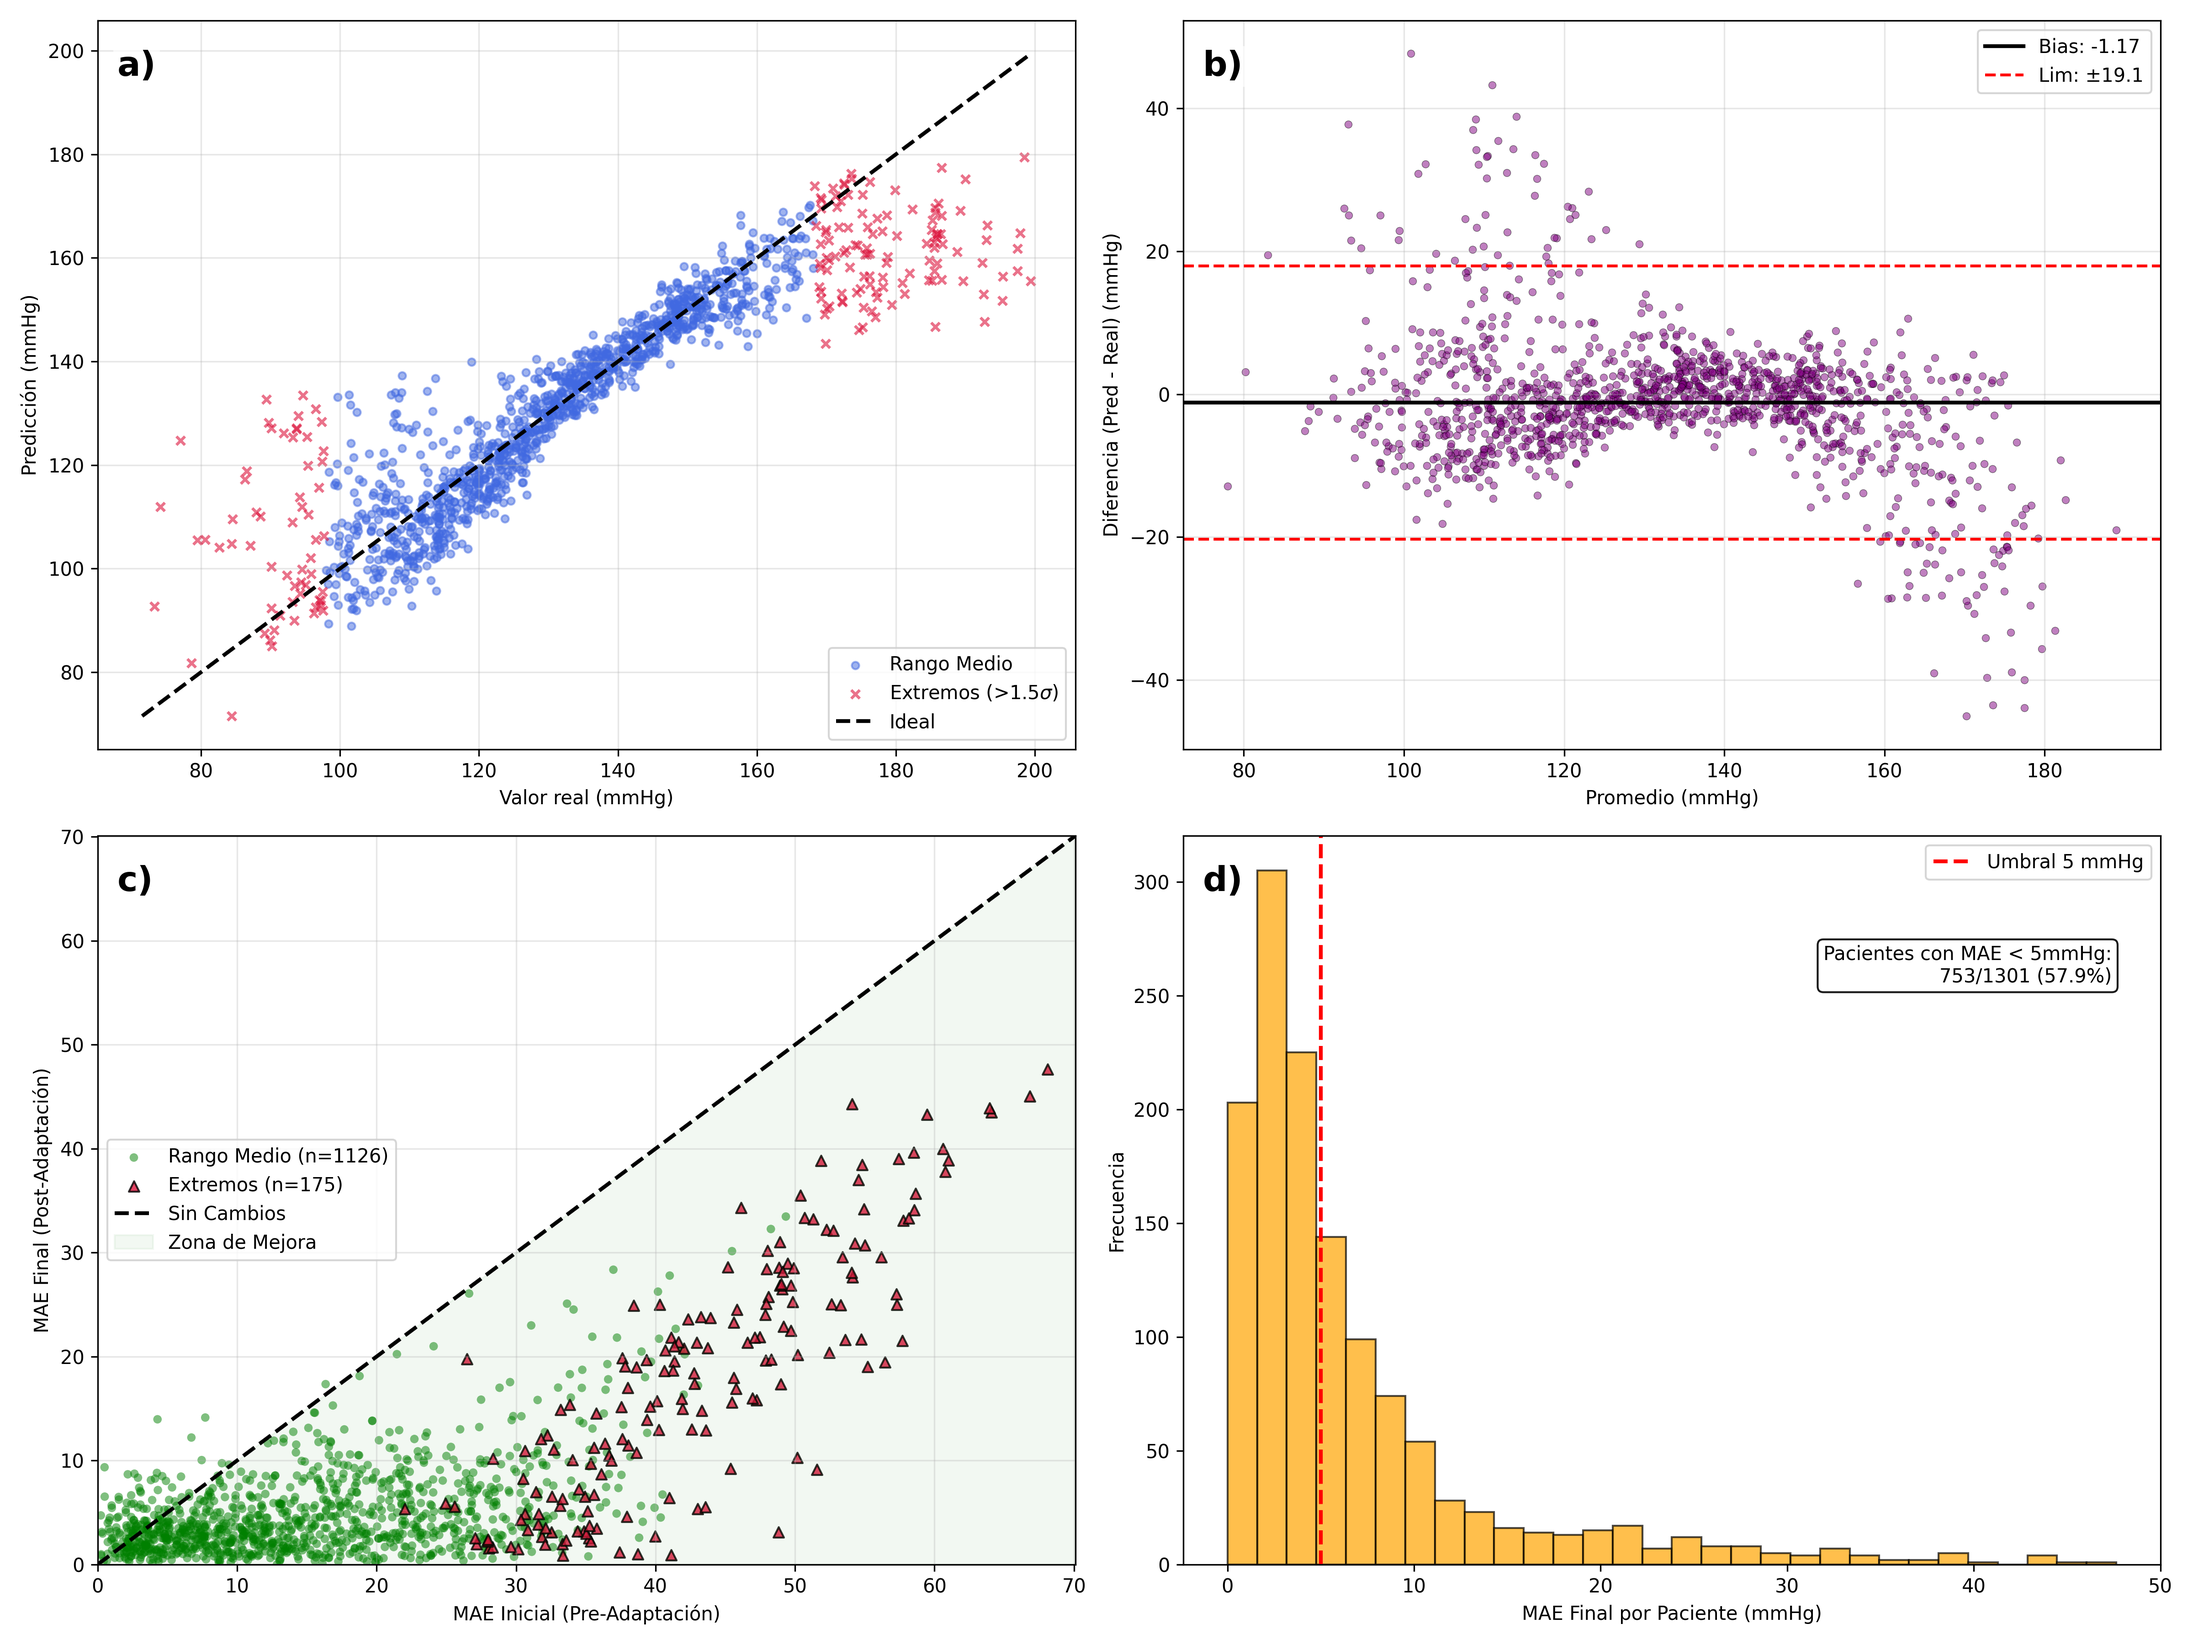
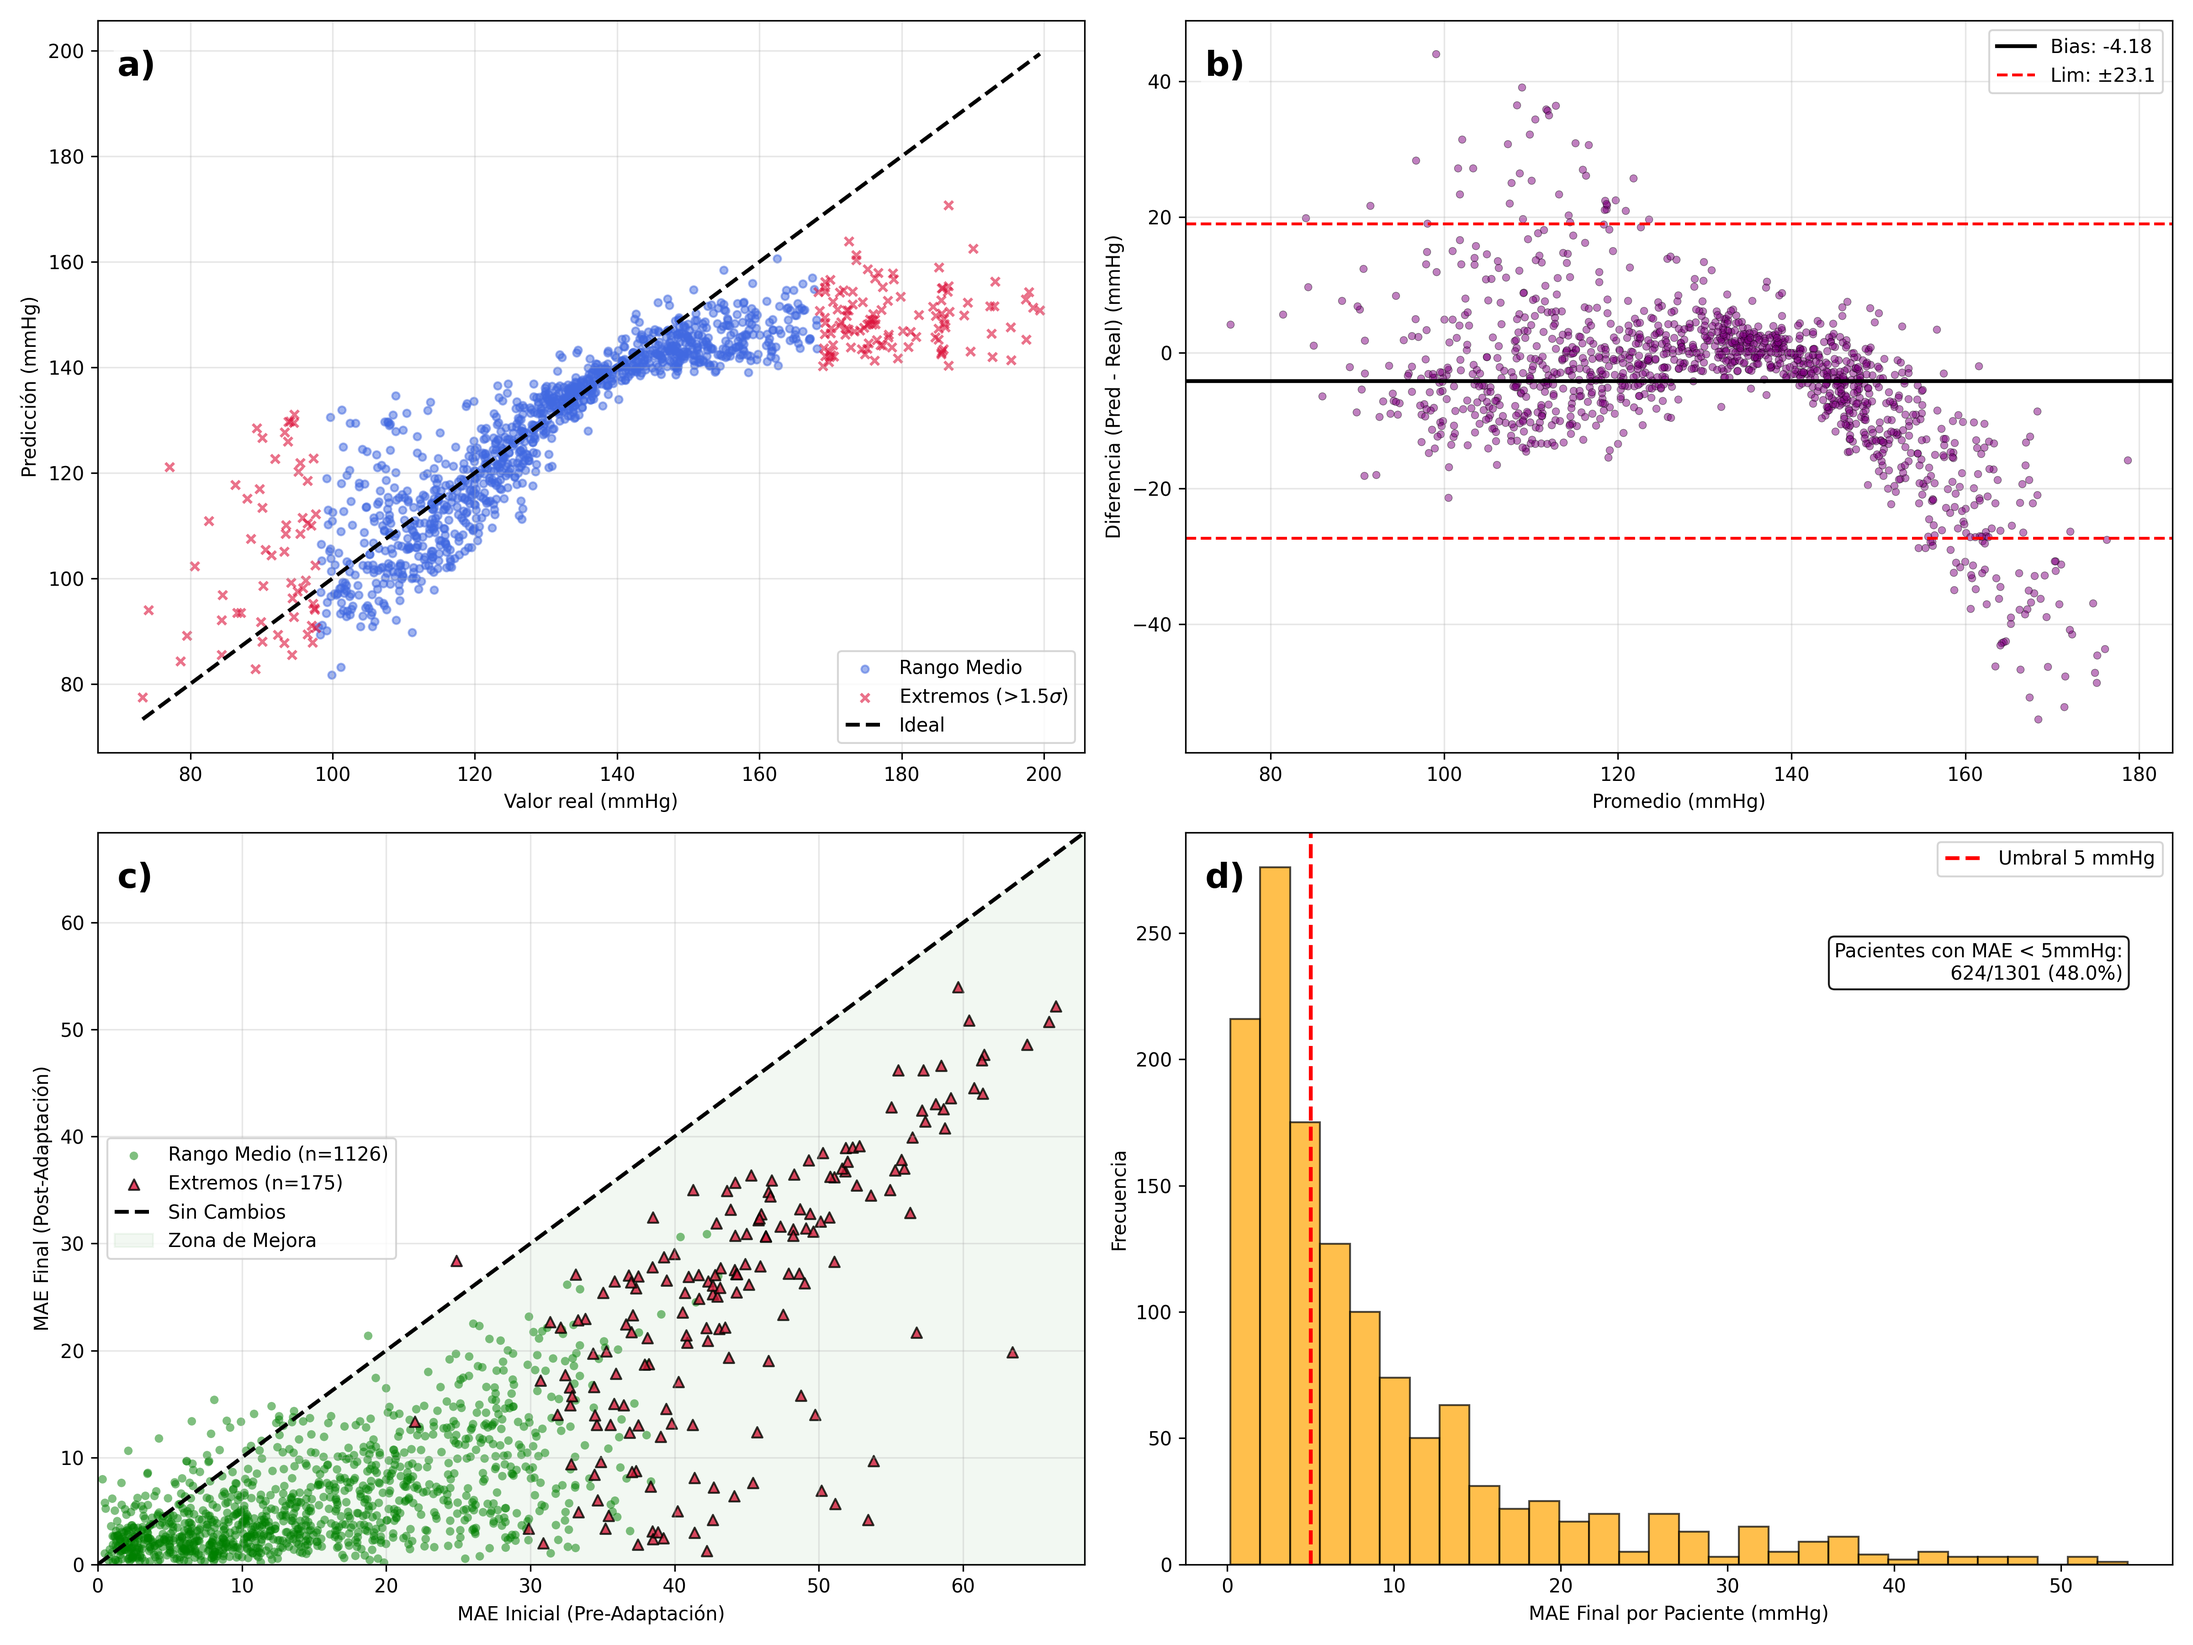
cambios menores

diff --git a/metalearning/Fewshot.py b/metalearning/Fewshot.py
@@ -169,8 +169,8 @@ def graficar_resultados_pacientes(true_means, pred_means, maes_post, maes_pre=No
     # ==================================================================
 
     plt.tight_layout()
-    plt.savefig(f'metalearning/pacientes_{titulo}_delta.png', dpi=300)
-    print(f"Gráfico guardado: metalearningpacientes_{titulo}.png")
+    plt.savefig(f'metalearning/pacientes_{titulo}_delta_2.png', dpi=300)
+    print(f"Gráfico guardado: metalearning/pacientes_{titulo}_delta_2.png")
 
 def main(n_shots=5, base_lr = 5e-3, base_dataset=None, test_patient_ids=None):
     SBP_MEAN = 134.02
@@ -206,7 +206,7 @@ def main(n_shots=5, base_lr = 5e-3, base_dataset=None, test_patient_ids=None):
 
     # --- Carga de Modelo ---
     model = Modelo_ConvolucionalV1(in_channels=2, out_channels=2, long_signal=500)
-    path_model = 'models/checkpoints/checkpoint_meta_DELTA_LEARNING_fast_anneal_k100_alpha90.pt'
+    path_model = 'models/checkpoints/best_meta_intrapatient_GAP50_HYBRID_ANNEAL_5_epochs.pt'
     
     print(f"Cargando modelo desde {path_model}...")
     checkpoint = torch.load(path_model, map_location=device, weights_only=False) 
@@ -389,7 +389,7 @@ def main(n_shots=5, base_lr = 5e-3, base_dataset=None, test_patient_ids=None):
     total = len(taskset.list_IDs)
     tasa_mejora_sbp = mejoraron_sbp / total
     tasa_mejora_dbp = mejoraron_dbp / total
-    """
+    
     print("\n" + "="*60)
     print("       RESULTADOS FINALES GLOBAL (Calculados sobre todos los latidos)")
     print("="*60)
@@ -412,7 +412,7 @@ def main(n_shots=5, base_lr = 5e-3, base_dataset=None, test_patient_ids=None):
     print("\n--- CONSISTENCIA ---")
     print(f"Tasa Mejora SBP: {(tasa_mejora_sbp)*100:.1f}% ({mejoraron_sbp}/{total})")
     print(f"Tasa Mejora DBP: {(tasa_mejora_dbp)*100:.1f}% ({mejoraron_dbp}/{total})")
-    """
+    
     graficar_resultados_pacientes(means_true_sbp, means_pred_sbp, maes_sbp, maes_pre_sbp, titulo="SBP")
     graficar_resultados_pacientes(means_true_dbp, means_pred_dbp, maes_dbp, maes_pre_dbp, titulo="DBP")
     

diff --git a/metalearning/Intrapatient_eval_ESTATICA.py b/metalearning/Intrapatient_eval_ESTATICA.py
@@ -36,7 +36,7 @@ def main(n_shots=5, n_epochs=5, lr = 1e-3, MIN_SEÑALES_REQUERIDAS = 1000, NUM_P
         torch.cuda.manual_seed(SEED)
 
     #save_dir_graficas = "resultados_intrapatient/graficas_calibracion_estatica_dual"
-    save_dir_graficas = "resultados_intrapatient/no_meta_model"
+    save_dir_graficas = "resultados_intrapatient/hibrid_3"
     os.makedirs(save_dir_graficas, exist_ok=True)
     
     SBP_MEAN, SBP_STD = 134.02, 22.75
@@ -75,7 +75,7 @@ def main(n_shots=5, n_epochs=5, lr = 1e-3, MIN_SEÑALES_REQUERIDAS = 1000, NUM_P
 
     model = Modelo_ConvolucionalV1(in_channels=2, out_channels=2, long_signal=500)
     #path_model = 'models/checkpoints/best_meta_model_patientwise_s10q20_adapt5_PG2.pt'
-    path_model = 'models/best_models/best_model_conv_v1_200_epocas_picos_def_early8_ps.pt'
+    path_model = 'models/checkpoints/best_meta_intrapatient_GAP50_HYBRID_ANNEAL.pt'
     print(f"Cargando pesos desde {path_model}...")
     checkpoint = torch.load(path_model, map_location=torch.device('cpu'))
     state_dict = checkpoint['model_state_dict']
